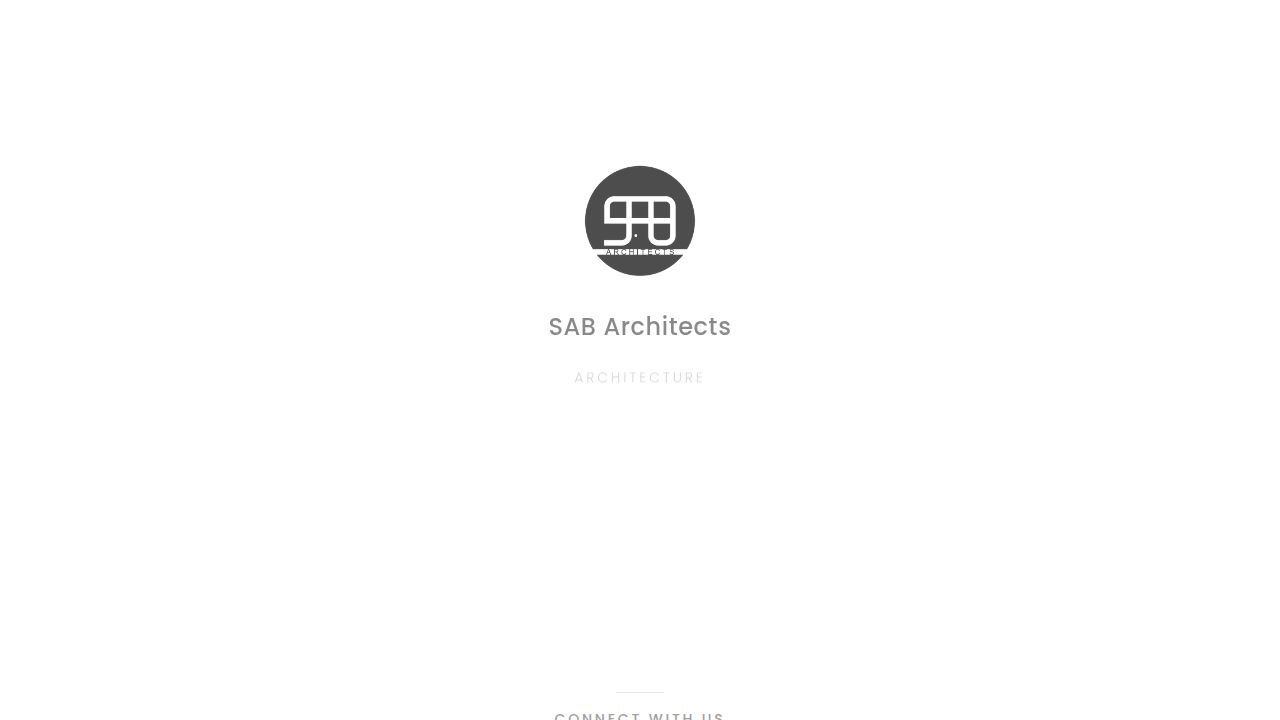
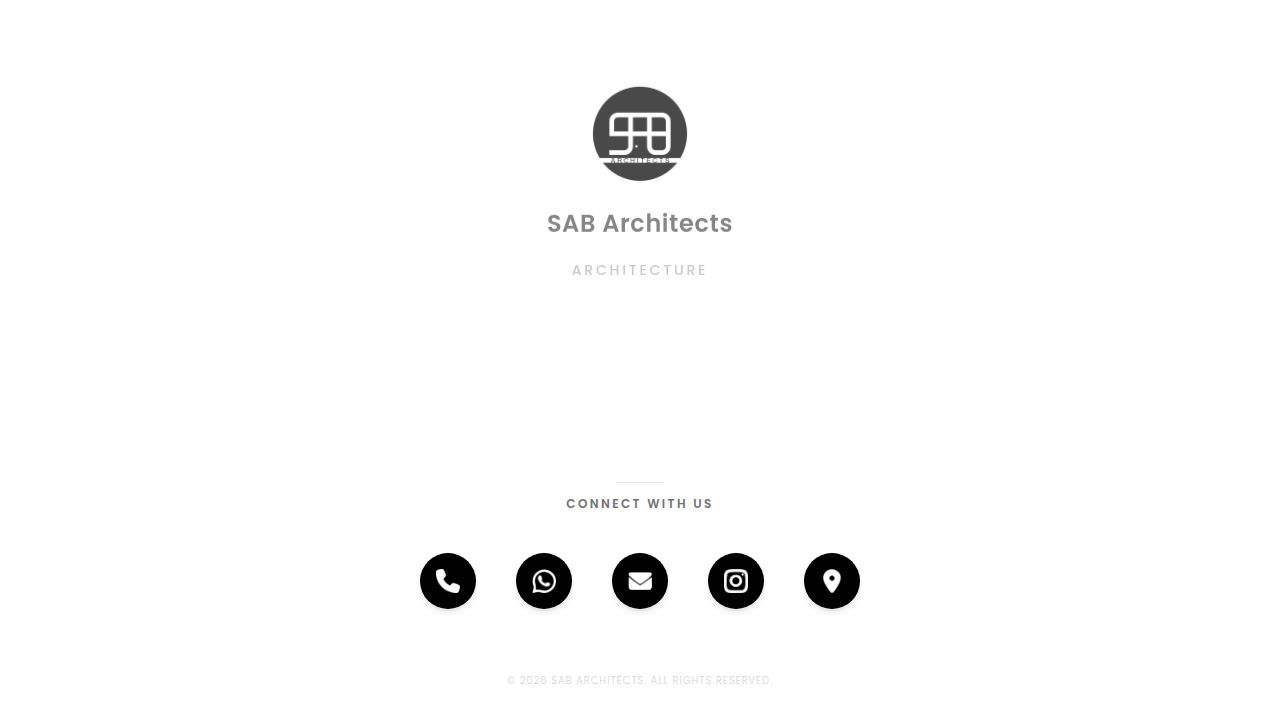
Update "Coming Soon" message and connect heading
Modify "Coming Soon" text to be two lines with custom HEX color #808080 and increase size of "Connect with us" heading in client/src/pages/home.tsx.

Replit-Commit-Author: Agent
Replit-Commit-Session-Id: 66d608c3-ab62-478b-93e0-74736861b08e
Replit-Commit-Checkpoint-Type: full_checkpoint
Replit-Commit-Event-Id: 7d150ba0-3115-4962-9bdb-e141a6dac49f
Replit-Commit-Screenshot-Url: https://storage.googleapis.com/screenshot-production-us-central1/0acb3db2-3826-4fa8-aaa4-1eb630d98b71/66d608c3-ab62-478b-93e0-74736861b08e/PSbxKpY
Replit-Helium-Checkpoint-Created: true

diff --git a/client/src/pages/home.tsx b/client/src/pages/home.tsx
@@ -112,8 +112,12 @@ export default function Home() {
         </div>
 
         {!hasProjects && (
-          <p className="text-neutral-900 text-sm font-bold tracking-wide mt-2 fade-in fade-in-delay-3 text-center max-w-xs">
-            We are building our digital space. Stay connected.
+          <p 
+            className="text-sm font-bold tracking-wide mt-2 fade-in fade-in-delay-3 text-center max-w-xs"
+            style={{ color: '#808080' }}
+          >
+            We are building our digital space.<br />
+            Stay connected.
           </p>
         )}
       </section>
@@ -198,7 +202,7 @@ export default function Home() {
       <section className="w-full py-12 flex flex-col items-center justify-center gap-8 mt-auto">
         <div className="flex flex-col items-center gap-3 mb-2">
           <div className="w-12 h-px bg-neutral-200" />
-          <h2 className="text-[10px] font-bold tracking-[0.2em] uppercase text-neutral-500">Connect with us</h2>
+          <h2 className="text-[12px] font-bold tracking-[0.2em] uppercase text-neutral-500">Connect with us</h2>
         </div>
         
         <div className="flex flex-wrap justify-center gap-5 md:gap-10 px-4">
